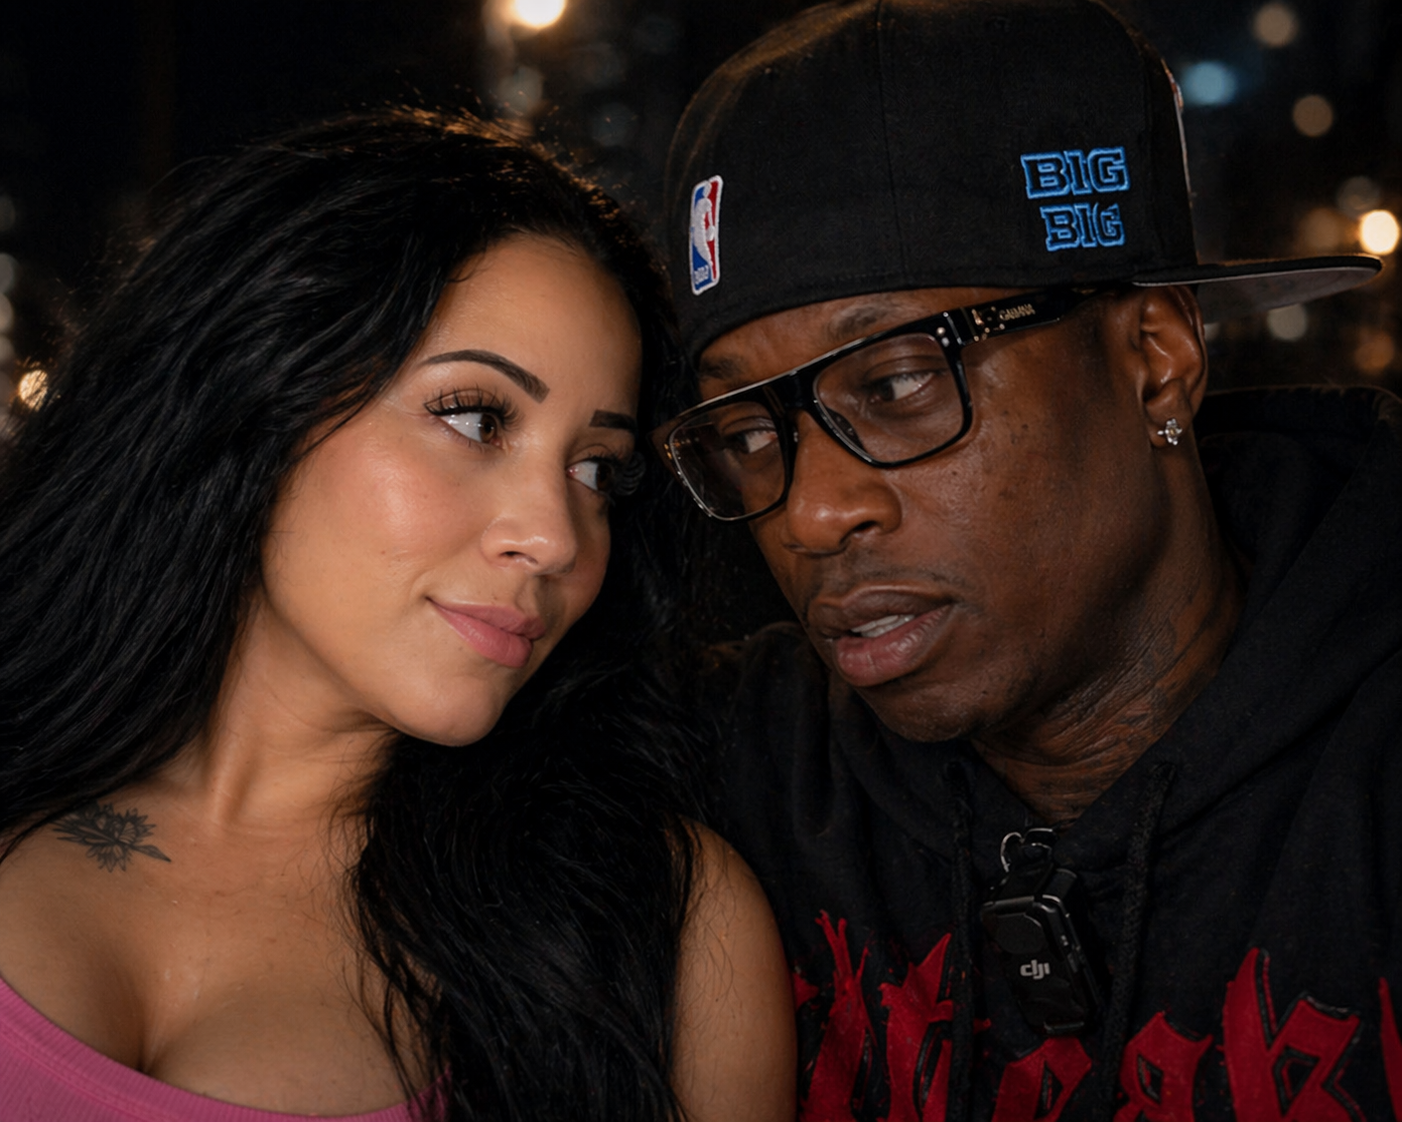
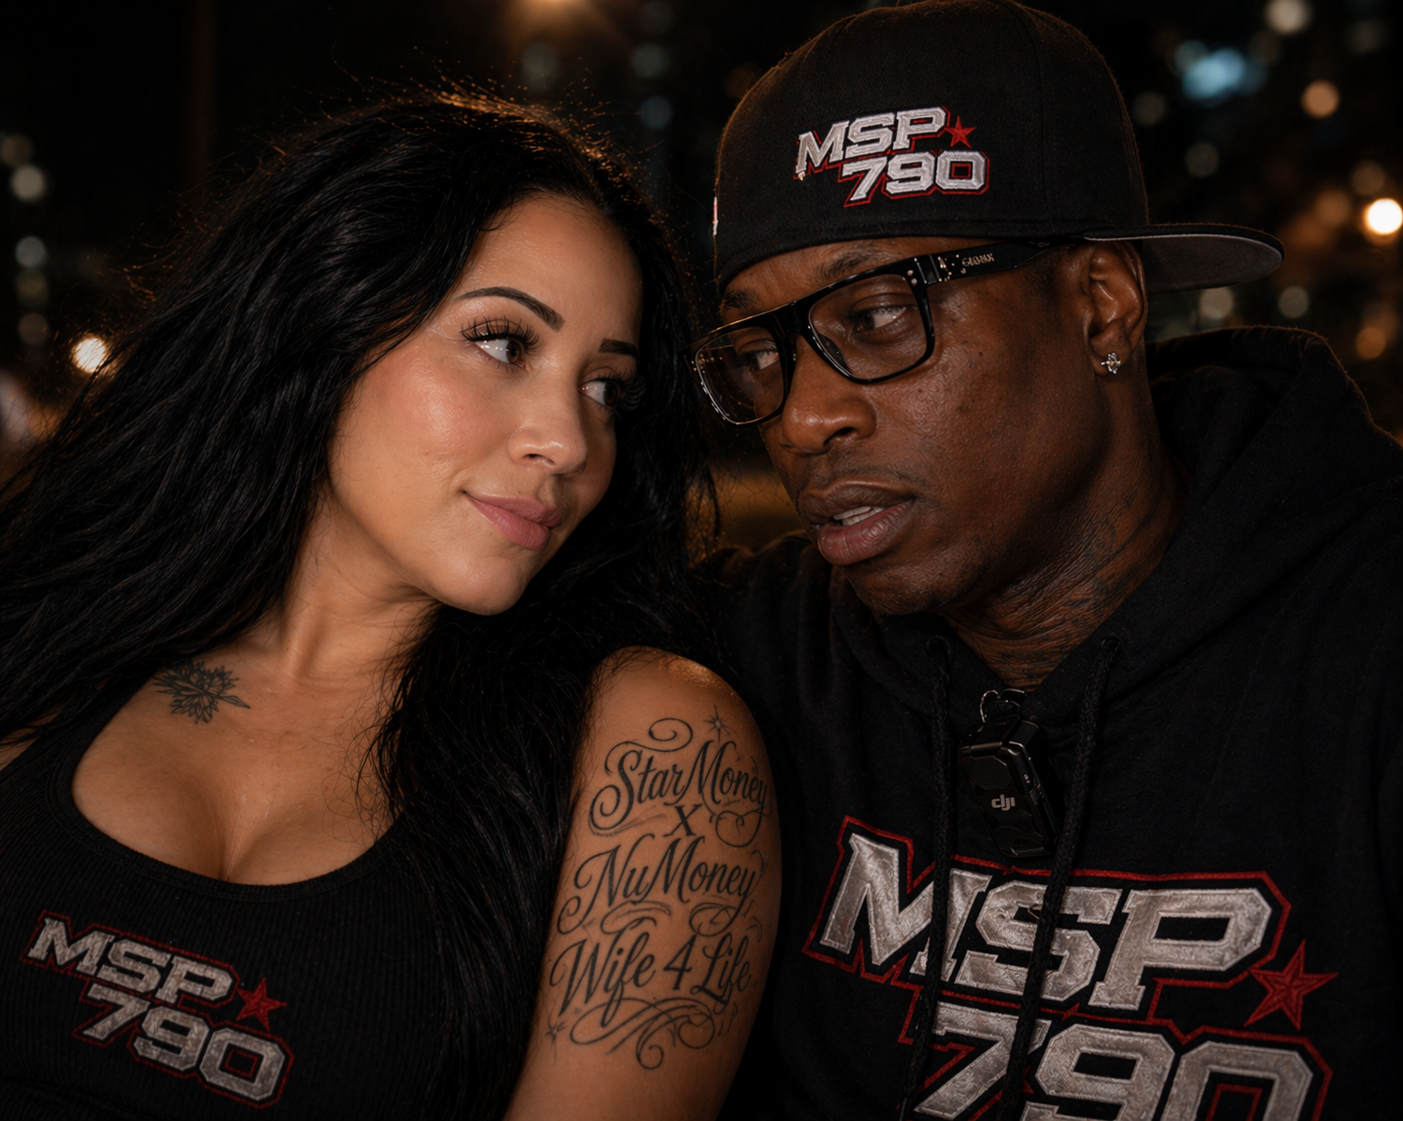
Update team card roles and NuMoney photo

diff --git a/index.html b/index.html
@@ -784,6 +784,7 @@
             </a>
             <div class="artist-copy">
               <h3>OG StarMoney</h3>
+              <p class="eyebrow">CEO | Founder, Creative Vision Lead</p>
               <p>Founder, professional dancer, choreographer, and creative driver of MSP 790 Payback Music with a focus on stage presence, choreography, and identity.</p>
               <div class="icon-row">
                 <a href="https://www.instagram.com/starmoney_msp_790paybacktime_" target="_blank" rel="noopener noreferrer" aria-label="Instagram"><i class="fab fa-instagram"></i></a>
@@ -800,6 +801,7 @@
             </a>
             <div class="artist-copy">
               <h3>K-Money</h3>
+              <p class="eyebrow">CTO | Chief Technical Officer / CPL | Content Productions Lead</p>
               <p>Production-minded creative support across filming, editing, websites, audio, and the service-side infrastructure that keeps the brand moving.</p>
             </div>
           </div>
